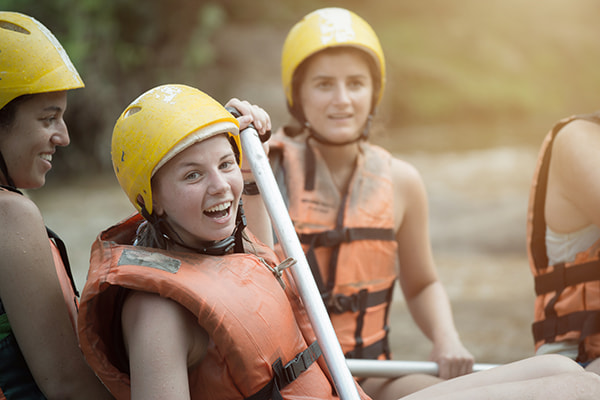
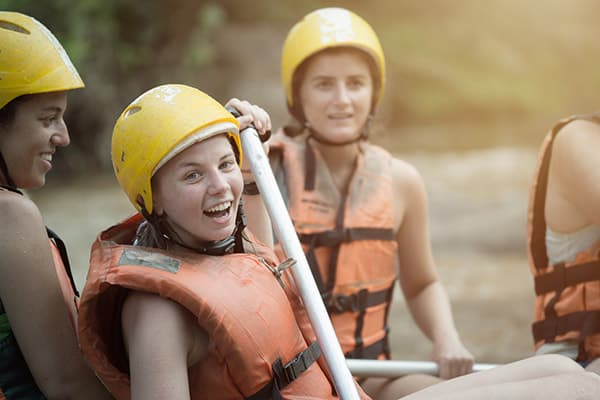
commit

diff --git a/wwr/about.html b/wwr/about.html
@@ -23,7 +23,7 @@
     </header>
     <main>
         <div class="hero">
-            <img src="images/heroimage.webp" alt="">
+            <img src="images/heroimage.jpg" alt="">
             <h1>Dry Oar Rafting Co.</h1>
             <article><img src="images/happy.jpg" alt=""><p>
                 Lorem ipsum dolor, sit amet consectetur adipisicing elit. Esse quisquam natus qui earum ex voluptate, quas debitis quaerat, doloribus, sed excepturi nobis minus eligendi laudantium fugit corrupti quibusdam modi exercitationem?
